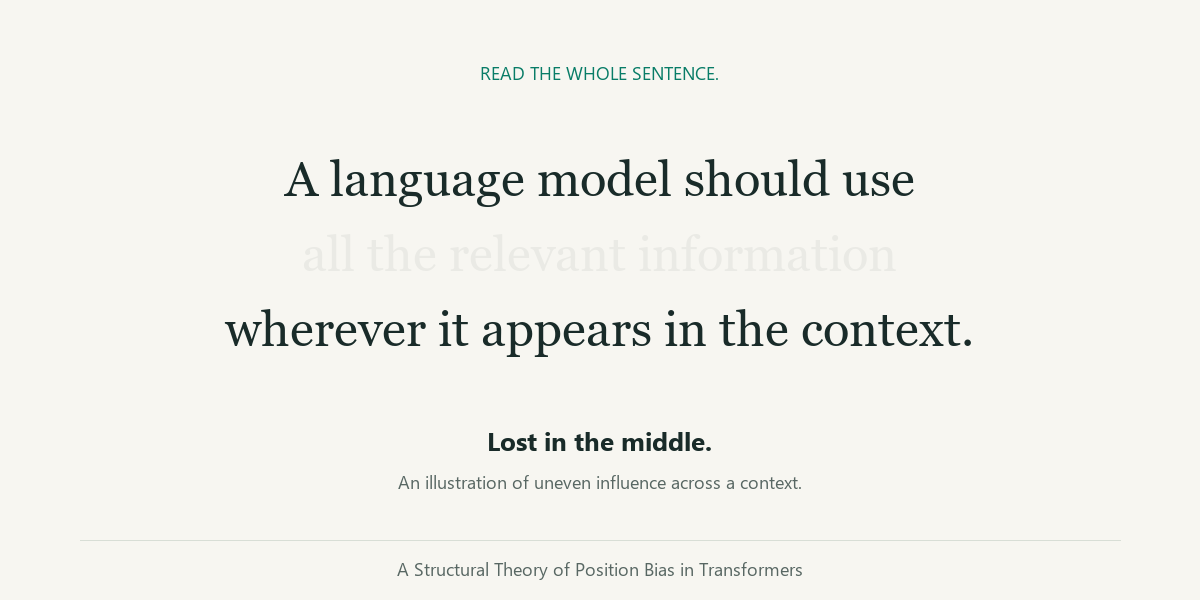
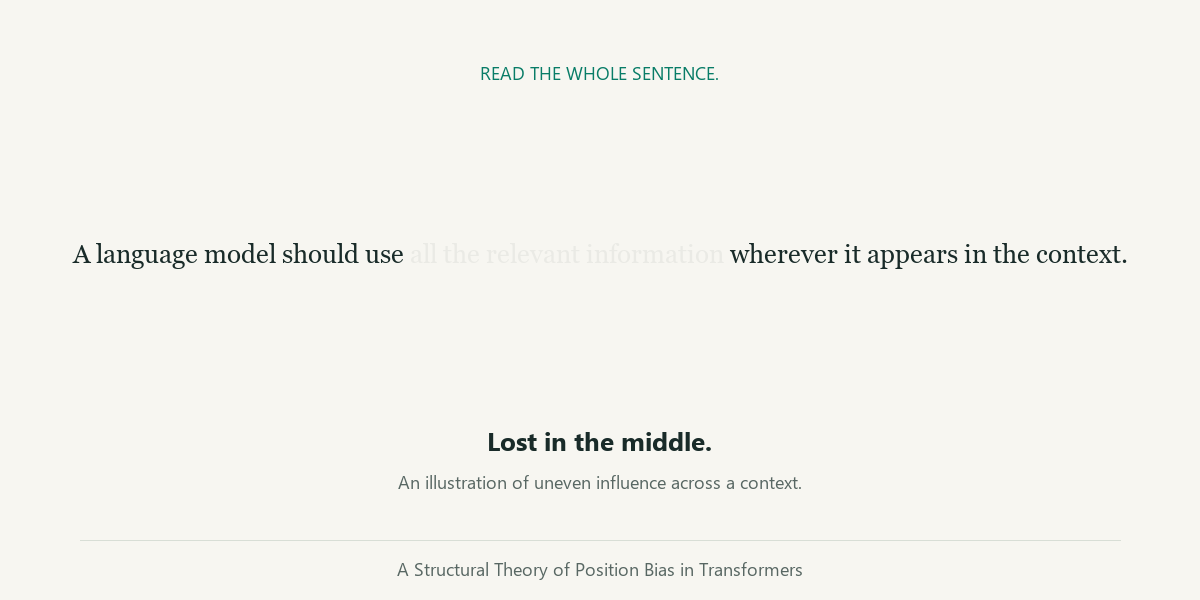
Keep fading sentence on one line on wide screens

diff --git a/docs/style.css b/docs/style.css
@@ -6,6 +6,8 @@
 .opening{padding:42px 0 30px;border-bottom:1px solid var(--rule);max-width:100%;min-height:330px}.opening>.eyebrow{margin-bottom:23px}.opening-sentence{font-family:Georgia,"Times New Roman",serif;font-size:clamp(24px,3.5vw,41px);line-height:1.5;letter-spacing:-.03em;margin:0 0 22px}.opening-sentence>span{display:block}.opening-bottom{display:flex;align-items:center;justify-content:space-between;gap:20px}.opening-caption strong{font-size:15px;font-weight:600;display:block}.opening-caption span{display:block;font-size:11px;color:var(--muted)}.opening #opening-control{font-size:11px}.has-intro .sentence-middle{animation:middle-fades 4s ease-in-out forwards}.has-intro .opening-caption{animation:caption-appears 4s ease forwards}.has-intro:not(.intro-done) .page-content{opacity:0;animation:explanation-appears .7s ease 3.8s forwards}.intro-done .page-content{opacity:1}.opening.replaying .sentence-middle{animation:middle-fades 4s ease-in-out forwards}.opening.replaying .opening-caption{animation:caption-appears 4s ease forwards}.intro-done .opening:not(.replaying) .sentence-middle{opacity:.06;animation:none}.intro-done .opening:not(.replaying) .opening-caption{opacity:1;animation:none}.intro-done .hero{padding-top:45px}
 .opening h1{font-size:clamp(52px,6.5vw,76px);margin-bottom:24px}.opening-lead{margin-bottom:16px}.opening-context{max-width:760px;font-size:15px;line-height:1.65;margin-bottom:28px}.has-intro .sentence-middle,.has-intro .opening-caption,.opening.replaying .sentence-middle,.opening.replaying .opening-caption{animation-duration:6s}.has-intro:not(.intro-done) .page-content{animation-delay:5.8s}
 /* One shared style for explanatory section headings, distinct from chart labels. */
+.opening-sentence{font-size:clamp(16px,2.2vw,24px);white-space:nowrap;letter-spacing:-.025em}.opening-sentence>span{display:inline}
+@media(max-width:760px){.opening-sentence{font-size:18px;white-space:normal}}
 .chart-header{min-height:68px}.approach-label{font-size:11px;font-weight:600;letter-spacing:.07em;text-transform:uppercase;color:var(--muted);margin-bottom:5px}.chart-panel[data-variant="adaptive"] .approach-label{color:var(--green)}.chart-header>.chart-rule{padding-top:20px}
 article>.opening,article .hero,article .prose,article .experiment{width:100%;max-width:none;margin-left:0;margin-right:0}
 article .lead,article .opening-context,article .chart-intro,article .technical-note{max-width:none}

diff --git a/docs/index.html b/docs/index.html
@@ -21,7 +21,7 @@
         <nav class="links" aria-label="Research links"><a href="https://arxiv.org/abs/2602.16837">Read the paper <span aria-hidden="true">↗</span></a><a href="https://github.com/ml-uhh/position-bias">Explore the code <span aria-hidden="true">↗</span></a><a href="#animation">See it unfold <span aria-hidden="true">↓</span></a></nav>
         <p class="lead opening-lead">A Transformer can give different influence to the same information depending on where it appears.</p>
         <p class="opening-context">When information in the middle is underused compared with information near the beginning or end, this is often called <em>Lost in the Middle</em>.</p>
-        <p class="opening-sentence" aria-label="A language model should use all the relevant information wherever it appears in the context."><span aria-hidden="true">A language model should use</span><span class="sentence-middle" aria-hidden="true">all the relevant information</span><span aria-hidden="true">wherever it appears in the context.</span></p>
+        <p class="opening-sentence" aria-label="A language model should use all the relevant information wherever it appears in the context."><span aria-hidden="true">A language model should use</span> <span class="sentence-middle" aria-hidden="true">all the relevant information</span> <span aria-hidden="true">wherever it appears in the context.</span></p>
         <div class="opening-bottom"><div class="opening-caption"><span>An illustration of position bias: information in the middle receives less influence.</span></div><button type="button" id="opening-control" class="quiet">Continue</button></div>
       </section>
       <div class="page-content">
